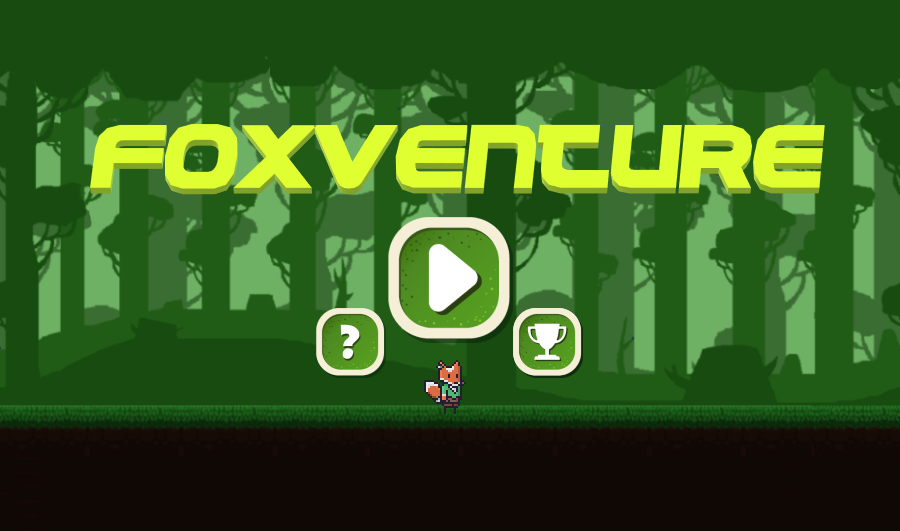
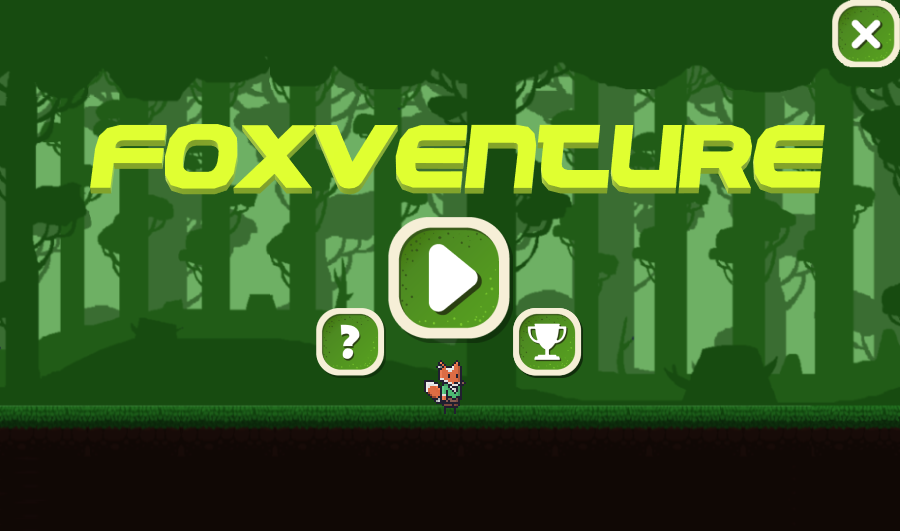
resetting

Changed region(s): [[0.9022, 0.0, 1.0, 0.1507]]

diff --git a/game.cpp b/game.cpp
@@ -34,9 +34,7 @@ enemy1(enemy1), enemy2(enemy2), topfive(5,0)
     SDL_Color color1 = {212, 238, 68, 0};
     losetext = graphics.renderText("YOU LOSE", lose, color);
     losetext1 = graphics.renderText("YOU LOSE", lose, color1);
-    frames=0;
-    frames1=0;
-    frames2=0;
+    passobs=0;
 }
 
 Game::~Game() {
@@ -127,49 +125,67 @@ void Game::run() {
 void Game::update() {
     timebetween++;
     SDL_Rect foxBox = fox.boundary();
-    cerr << "Fox boundary: (" << foxBox.x << ", " << foxBox.x + foxBox.w << ", " << foxBox.y  + foxBox.h << ")\n";
     SDL_Rect enemyBox = enemy.eboundary();
-    cerr << "Enemy boundary: (" << enemyBox.x << ", " << enemyBox.x + enemyBox.w << ", " << enemyBox.y + enemyBox.h << ")\n";
     SDL_Rect enemyBox1 = enemy1.eboundary();
-    cerr << "Enemy boundary: (" << enemyBox1.x << ", " << enemyBox1.x + enemyBox1.w << ", " << enemyBox1.y + enemyBox1.h << ")\n";
     SDL_Rect enemyBox2 = enemy2.eboundary();
-    cerr << "Enemy boundary: (" << enemyBox2.x << ", " << enemyBox2.x + enemyBox2.w << ", " << enemyBox2.y+ enemyBox2.h << ")\n";
     SDL_Rect obsBox = enemy.oboundary();
-    cerr << "Obs boundary: (" << obsBox.x << ", " << obsBox.x + obsBox.w << ", " << obsBox.y + obsBox.h << ")\n";
+    cerr<<enemy.obsposX<<endl<<enemy1.obsposX<<endl<<enemy2.obsposX<<endl;
     SDL_Rect obsBox1 = enemy1.oboundary();
-    cerr << "Obs boundary: (" << obsBox1.x << ", " << obsBox1.x + obsBox1.w << ", " << obsBox1.y + obsBox1.h << ")\n";
     SDL_Rect obsBox2 = enemy2.oboundary();
-    cerr << "Obs boundary: (" << obsBox2.x << ", " << obsBox2.x + obsBox2.w << ", " << obsBox2.y + obsBox2.h << ")\n";
     if(fox.currentSprite!=&fox.fattack) {foxBox.w=30;} else foxBox.w=50;
-    if (enemy.obsposX<=-110) {enemy.obsposX = SCRW+113+rand()%100;}
-    if (enemy1.obsposX<=-110) {enemy1.obsposX = SCRW+271+rand()%150;}
-    if (enemy2.obsposX<=-110) {enemy2.obsposX = SCRW+460+rand()%190;}
+    if (enemy.obsposX<-145) {enemy.obsposX = SCRW+113+rand()%100;}
+    if (enemy1.obsposX<-145) {enemy1.obsposX = SCRW+371+rand()%150;}
+    if (enemy2.obsposX<-145) {enemy2.obsposX = SCRW+760+rand()%290;}
     if (enemy.isOffScreen()&&(
         (obsBox1.x+obsBox1.w>=enemyBox.x&&obsBox1.x+obsBox1.w<=enemyBox.x+enemyBox.w)||
         (obsBox2.x+obsBox2.w>=enemyBox.x&&obsBox2.x+obsBox2.w<=enemyBox.x+enemyBox.w)||
          (abs(obsBox1.x+obsBox1.w-enemyBox.x)<40)||(abs(obsBox2.x+obsBox2.w-enemyBox.x)<40))&&
         enemy.state==enemy.ATTACKING) {
-        enemy.enemyposX +=rand()%150;
+        enemy.enemyposX +=150+rand()%200;
     }
     if (enemy1.isOffScreen()&&(
         (obsBox.x+obsBox.w>=enemyBox1.x&&obsBox.x+obsBox.w<=enemyBox1.x+enemyBox1.w)||
         (obsBox2.x+obsBox2.w>=enemyBox1.x&&obsBox2.x+obsBox2.w<=enemyBox1.x+enemyBox1.w)||
         (abs(obsBox.x+obsBox.w-enemyBox1.x)<40)||(abs(obsBox2.x+obsBox2.w-enemyBox1.x)<40))&&
         enemy.state==enemy.ATTACKING) {
-        enemy1.enemyposX +=150+rand()%150;
+        enemy1.enemyposX +=350+rand()%150;
     }
     if (enemy2.isOffScreen()&&(
         (obsBox1.x+obsBox1.w>=enemyBox2.x&&obsBox1.x+obsBox1.w<=enemyBox2.x+enemyBox2.w)||
         (obsBox.x+obsBox.w>=enemyBox2.x&&obsBox.x+obsBox.w<=enemyBox2.x+enemyBox2.w)||
         (abs(obsBox1.x+obsBox1.w-enemyBox2.x)<40)||(abs(obsBox.x+obsBox.w-enemyBox2.x)<40))&&
         enemy.state==enemy.ATTACKING) {
-        enemy2.enemyposX +=400+rand()%150;
+        enemy2.enemyposX +=500+rand()%150;
     }
     fox.update();
-    if(enemy.obsposX==enemy1.obsposX&&enemy1.obsposX==enemy2.obsposX&&enemy.obsposX>SCRW) {enemy1.obsposX+=310;enemy2.obsposX+=830;}
-    if(abs(enemy.obsposX-enemy1.obsposX)<60) {enemy1.obsposX-=30;}
-    if(abs(enemy1.obsposX-enemy2.obsposX)<60){enemy2.obsposX-=30;}
-    if(abs(enemy.obsposX-enemy2.obsposX)<60) {enemy.obsposX-=30;}
+    if(enemy.obsposX==enemy1.obsposX&&enemy1.obsposX==enemy2.obsposX&&enemy.obsposX>SCRW) {enemy1.obsposX+=810+rand()%243;enemy2.obsposX+=1230+rand()%412;}
+    if(abs(enemy.obsposX-enemy1.obsposX)<150&&enemy.obsposX<enemy1.obsposX) {enemy1.obsposX+=100;}
+    if(abs(enemy.obsposX-enemy1.obsposX)<150&&enemy.obsposX>enemy1.obsposX) {enemy.obsposX+=100;}
+    if(abs(enemy1.obsposX-enemy2.obsposX)<150&&enemy1.obsposX<enemy2.obsposX){enemy2.obsposX+=150;}
+    if(abs(enemy1.obsposX-enemy2.obsposX)<150&&enemy1.obsposX>enemy2.obsposX){enemy1.obsposX+=150;}
+    if(abs(enemy.obsposX-enemy2.obsposX)<150&&enemy.obsposX>enemy2.obsposX) {enemy.obsposX+=175;}
+    if(abs(enemy.obsposX-enemy2.obsposX)<150&&enemy.obsposX<enemy2.obsposX) {enemy2.obsposX+=175;}
+    if(enemy.obs.getFrame()==3) {obsBox.x=enemy.obsposX+100;obsBox.y=GROUNDFY;}
+    else if(enemy.obs.getFrame()==4) {obsBox.y=GROUNDFY+22;}
+    else if(enemy.obs.getFrame()==5)  {obsBox.x=enemy.obsposX+175;}
+    else if(enemy.obs.getFrame()==6) {obsBox.y=GROUNDFY-14;}
+    else {obsBox={enemy.obsposX+140, GROUNDFY-8, 15, 60};}
+    if(enemy1.obs.getFrame()==3) {obsBox1.x=enemy1.obsposX+100;obsBox1.y=GROUNDFY;}
+    else if(enemy1.obs.getFrame()==4) {obsBox1.y=GROUNDFY+22;}
+    else if(enemy1.obs.getFrame()==5)  {obsBox1.x=enemy1.obsposX+175;}
+    else if(enemy1.obs.getFrame()==6) {obsBox1.y=GROUNDFY-14;}
+    else {obsBox1={enemy1.obsposX+140, GROUNDFY-8, 15, 60};}
+    if(enemy2.obs.getFrame()==3) {obsBox2.x=enemy2.obsposX+100;obsBox2.y=GROUNDFY;}
+    else if(enemy2.obs.getFrame()==4) {obsBox2.y=GROUNDFY+22;}
+    else if(enemy2.obs.getFrame()==5) {obsBox2.x=enemy2.obsposX+175;}
+    else if(enemy2.obs.getFrame()==6) {obsBox2.y=GROUNDFY-14;}
+    else {obsBox2={enemy2.obsposX+140, GROUNDFY-8, 15, 60};}
+    if (enemy.eattack.getFrame()==4||enemy.eattack.getFrame()==5) {enemyBox.x=enemy.enemyposX+5;}
+    else {enemyBox={enemy.enemyposX+25, GROUNDFY+19, 43, 30};}
+    if (enemy1.eattack.getFrame()==4||enemy1.eattack.getFrame()==5) {enemyBox1.x=enemy1.enemyposX+5;}
+    else {enemyBox1={enemy1.enemyposX+25, GROUNDFY+19, 43, 30};}
+    if (enemy2.eattack.getFrame()==4||enemy2.eattack.getFrame()==5) {enemyBox2.x=enemy2.enemyposX+5;}
+    else {enemyBox2={enemy2.enemyposX+25, GROUNDFY+19, 43, 30};}
     enemy.update();
     enemy1.update();
     enemy2.update();
@@ -182,6 +198,7 @@ void Game::update() {
         graphics.presentScene();
         score += 5;
         enemy.enemyposX = SCRW+150+rand()%100;
+        enemy.state = enemy.OBSTACLE;
     } else if (fox.currentSprite != &fox.fattack) {
         fox.currentSprite = &fox.fdeath;
         quit = true;
@@ -194,6 +211,7 @@ void Game::update() {
         graphics.presentScene();
         score += 5;
         enemy1.enemyposX = SCRW+250+rand()%200;
+        enemy1.state = enemy1.OBSTACLE;
     } else if (fox.currentSprite != &fox.fattack) {
         fox.currentSprite = &fox.fdeath;
         quit = true;
@@ -206,45 +224,38 @@ void Game::update() {
         graphics.presentScene();
         score += 5;
         enemy2.enemyposX = SCRW+500+rand()%100;
+        enemy2.state = enemy2.OBSTACLE;
     } else if (fox.currentSprite != &fox.fattack) {
         fox.currentSprite = &fox.fdeath;
         quit = true;
         gameover = true;
         }
     }
-    if (SDL_HasIntersection(&foxBox, &obsBox)) {
-        fox.currentSprite = &fox.fdeath;
+    if (SDL_HasIntersection(&foxBox, &obsBox)|| SDL_HasIntersection(&foxBox, &obsBox1)||SDL_HasIntersection(&foxBox, &obsBox2)) {
         quit = true;
         gameover = true;
-    }
-    if (SDL_HasIntersection(&foxBox, &obsBox1)) {
         fox.currentSprite = &fox.fdeath;
-        quit = true;
-        gameover = true;
-    }
-     if (SDL_HasIntersection(&foxBox, &obsBox2)) {
-        fox.currentSprite = &fox.fdeath;
-        quit = true;
-        gameover = true;
-    }
-    if ((obsBox.x<75&&obsBox.x>=70))  {frames++;}
-    if ((obsBox1.x<75&&obsBox1.x>=70)) {frames1++;}
-    if ((obsBox2.x<75&&obsBox2.x>=70)) {frames2++;}
-    if (frames==1||frames1==1||frames2==1) {score += 2;}
-    if (enemy.obsposX<0) {frames=0;}
-    if (enemy1.obsposX<0) {frames1=0;}
-    if (enemy2.obsposX<0)  {frames2=0;}
+    } else {
+            passobs++;
+            if (passobs>70) {
+                score++;
+                passobs=0;
+            }
+        }
+    if (enemy.obsposX<-145) {score+=2;enemy.state=enemy.ATTACKING;}
+    if (enemy1.obsposX<-145) {score+=2;enemy1.state=enemy1.ATTACKING;}
+    if (enemy2.obsposX<-145) {score+=2;enemy2.state=enemy2.ATTACKING;}
     if (enemy.enemyposX<0) {enemy.enemyposX=SCRW+120;}
-    if (enemy1.enemyposX<0) {enemy1.enemyposX=SCRW+300;}
-    if (enemy2.enemyposX<0)  {enemy2.enemyposX=SCRW+450;}
+    if (enemy1.enemyposX<0) {enemy1.enemyposX=SCRW+500;}
+    if (enemy2.enemyposX<0)  {enemy2.enemyposX=SCRW+950;}
     scoreText="Score: "+to_string(score);
     scoreTexture=graphics.renderText(scoreText.c_str(), scoret, color);
-    if(timebetween>=2500) {
+    if(timebetween>=1600) {
         enemy.speed+=1;
         enemy1.speed+=1;
         enemy2.speed+=1;
-        fox.JUMP_SPEED += 1;
-        fox.FALL_SPEED +=1;
+        fox.JUMP_SPEED+=1;
+        fox.FALL_SPEED+=1;
         timebetween=0;
     }
 }
@@ -285,12 +296,21 @@ void Game::render() {
     fox.render(graphics);
     renderScore();
     graphics.presentScene();
+    soundPlayed = false;
 }
 
 void Game::renderOver() {
-    static bool soundPlayed = false;
     graphics.renderTexture(losetext1, 119, 32);
     graphics.renderTexture(losetext, 114, 31);
+    graphics.renderTexture(gcontinue, 0, 0);
+    if (musicisoff) {
+                    graphics.renderTexture(musicoff, MUSIC_X, MUSIC_Y);
+                    Mix_PauseMusic();
+                }
+                else {
+                        graphics.renderTexture(musicon, MUSIC_X, MUSIC_Y);
+                        Mix_ResumeMusic();
+                    }
     if (!soundPlayed) {
         graphics.play2(glose);
         soundPlayed = true;
@@ -338,6 +358,9 @@ void Game::overEvent() {
             }
             if (x >= SCRW/2+54 && x <= SCRW/2+152 && y >= 210 && y <= 310) {
                 exit(0);
+            }
+            if (x >= 70 && x <= 140 && y >= 0 && y <= 70) {
+                    musicisoff=!musicisoff;
             }
             break;
         }

diff --git a/menu.cpp b/menu.cpp
@@ -5,6 +5,7 @@ Menu::Menu(Graphics& graphics, Game* game)
     : graphics(graphics), game(game),
       gameStarted(false), helpStarted(false), highscoresStarted(false) {
     menu = graphics.loadTexture("pics/menu.png");
+    gclose = graphics.loadTexture("pics/closemenu.png");
     helpbg = graphics.loadTexture("pics/helpbg.png");
     highscoresbg = graphics.loadTexture("pics/highscoresbg.png");
     playb = graphics.loadTexture("pics/playbig.png");
@@ -19,6 +20,8 @@ Menu::Menu(Graphics& graphics, Game* game)
 Menu:: ~Menu() {
     SDL_DestroyTexture( menu );
     menu = nullptr;
+    SDL_DestroyTexture( gclose );
+    gclose = nullptr;
     SDL_DestroyTexture(helpbg);
     helpbg = nullptr;
     SDL_DestroyTexture(highscoresbg);
@@ -65,6 +68,10 @@ void Menu::menuevents(SDL_Event& event) {
                 highscoresEvent.user.code = 3; // Mã định danh cho sự kiện highscores
                 SDL_PushEvent(&highscoresEvent);
             }
+            if (!helpStarted && !highscoresStarted && !gameStarted
+                && x >= 830 && x <= SCRW && y >= 0 && y <= 70) {
+                exit(0);
+            }
             break;
             case SDL_MOUSEMOTION:
             x = event.motion.x;
@@ -80,6 +87,10 @@ void Menu::menuevents(SDL_Event& event) {
             } else if (helpStarted==false&&gameStarted==false&&highscoresStarted==false
             && x >= 518 && x <= 580 && y >= 308 && y <= 372) {
             graphics.renderTexture(hsb, 510, 305);
+            graphics.presentScene();
+            } else if (helpStarted==false&&gameStarted==false&&highscoresStarted==false
+            && x >= 830 && x <= SCRW && y >= 0 && y <= 70) {
+            graphics.renderTexture(gclose, 828, 0);
             graphics.presentScene();
             } else if (helpStarted==false&&gameStarted==false&&highscoresStarted==false) {
             graphics.renderTexture(menu,0,0);

diff --git a/enemy.cpp b/enemy.cpp
@@ -5,11 +5,11 @@ using namespace std;
 Enemy::Enemy(Graphics& graphics) : graphics(graphics) {
     enemyattack = graphics.loadTexture("pics/Centipede_attack3.png");
     enemydeath = graphics.loadTexture("pics/Centipede_death.png");
-    tileset = graphics.loadTexture("pics/tileset.png");
+    tileset = graphics.loadTexture("pics/chal.png");
     eattack.init(enemyattack, EATTACK_FRAMES, EATTACK_CLIPS);
     edeath.init(enemydeath, EDEAD_FRAMES, EDEAD_CLIPS);
     obs.init(tileset, OBSTACLE_FRAMES, OBSTACLE_CLIPS);
-    enemyposX=SCRW+350;
+    enemyposX=SCRW+250+rand()%200;
     obsposX=SCRW+20;
     currentSprite = &eattack;
     state=OBSTACLE;
@@ -32,14 +32,8 @@ void Enemy::update() {
             if (currentSprite == &edeath && edeath.isLastFrame()) {
                 currentSprite = &eattack;
             }
-            if (currentSprite == &edeath) {
-                state = OBSTACLE;
-            }
         } else if (state == OBSTACLE) {
             obsposX -= speed;
-            if (obsposX<-75) {
-                state = ATTACKING;
-            }
         }
     }
 
@@ -47,6 +41,7 @@ void Enemy::reset() {
     enemyposX=SCRW+450;
     obsposX=SCRW+10;
     currentSprite = &eattack;
+    speed=2;
 }
 
 void Enemy::render(Graphics& graphics) {
@@ -55,15 +50,15 @@ void Enemy::render(Graphics& graphics) {
             graphics.renders(enemyposX, GROUNDFY+19, *currentSprite);
         } else if (state == OBSTACLE) {
             obs.tick();
-            graphics.renders(obsposX, GROUNDFY+34, obs);
+            graphics.renders(obsposX+80, GROUNDFY-18, obs);
         }
     }
 
 SDL_Rect Enemy::eboundary() {
-    return {enemyposX+16, GROUNDFY+19, 43, 30};
+    return {enemyposX+26, GROUNDFY+19, 43, 30};
 }
 SDL_Rect Enemy::oboundary() {
-    return {obsposX+9, GROUNDFY+39, 64, 14};
+    return {obsposX+140, GROUNDFY-8, 15, 60};
 }
 
 bool Enemy::isOffScreen() {

diff --git a/def.h b/def.h
@@ -4,8 +4,13 @@ const int SCRW = 900;
 const int SCRH = 531;
 const int MIX_CHANNEL = -1;
 const int OBSTACLE_CLIPS[][4] = {
-    {0,0,82,20},
-    {82,0,82,20}};
+    {0,0,130,82},
+    {130,0,130,82},
+    {130*2,0,130,82},
+    {130*3,0,130,121},
+    {130*4,0,130+4,121},
+    {130*5+4,0,130,82},
+    {130*6,0,130,82}};
 const int OBSTACLE_FRAMES = sizeof(OBSTACLE_CLIPS)/sizeof(int)/4;
 const int WALK_CLIPS[][4] = {
     {   0, 0, 160, 64},
@@ -45,7 +50,7 @@ const int EATTACK_CLIPS[][4] = {
     {288, 0, 72, 40},
     {360, 0, 72, 40}};
 const int EATTACK_FRAMES = sizeof(EATTACK_CLIPS)/sizeof(int)/4;
-
+static bool soundPlayed = false;
 const int PLAY_X = SCRW/2-68;
 const int PLAY_Y = SCRH/2-50;
 const int BACK_X = 0;
@@ -59,7 +64,7 @@ const int MUSIC_H = 70;
 const int SCOREX = 445;
 const int SCOREY = 120;
 const int SCOREGAP = 55;
-const int GROUNDFX = 100;
+const int GROUNDFX = 89;
 const int GROUNDFY = 355;
 const int MAX_HEIGHT = 200;
 const int MAX_DELAY = 800;

diff --git a/fox.cpp b/fox.cpp
@@ -13,7 +13,7 @@ Fox::Fox(Graphics& graphics): graphics(graphics), isJumping(false), isAttacking(
     gJump = graphics.loadSound("sounds/jump.wav");
     gAttack = graphics.loadSound("sounds/attack.wav");
     currentSprite = &fwalk;
-    JUMP_SPEED = 4;
+    JUMP_SPEED = 3;
     FALL_SPEED = 4;
 }
 
@@ -91,5 +91,5 @@ void Fox::render(Graphics& graphics)
     graphics.renders(GROUNDFX, FOXPOSY, *currentSprite);
 }
 SDL_Rect Fox::boundary(){
-    return {GROUNDFX+49, FOXPOSY, 30, 54};
+    return {GROUNDFX+49, FOXPOSY, 30, 51};
 }

diff --git a/graphics.h b/graphics.h
@@ -14,7 +14,7 @@ struct Sprite {
     vector<SDL_Rect> clips;
     int currentFrame = 0;
     int delaycount=0;
-    int delaylimit=8;
+    int delaylimit=7;
     void init(SDL_Texture* _texture, int frames, const int _clips [][4]) {
         texture = _texture;
         SDL_Rect clip;
@@ -39,6 +39,9 @@ struct Sprite {
     }
     bool isLastFrame() const {
         return currentFrame == clips.size() - 1;
+    }
+    int getFrame() {
+        return currentFrame;
     }
 };
 

diff --git a/game.h b/game.h
@@ -43,9 +43,9 @@ private:
     SDL_Color color;
     int timebetween = 0;
     bool quit;
-    int frames,frames1,frames2;
     string highScoreText, scoreText;
     Mix_Chunk* glose;
+    int passobs;
 public:
     Game(Graphics& graphics, Fox& fox, Menu& menu, Enemy& enemy, Enemy& enemy1, Enemy& enemy2);
     ~Game();

diff --git a/menu.h b/menu.h
@@ -25,6 +25,7 @@ private:
     Game* game;
     TTF_Font* scoret;
     SDL_Texture* menu;
+    SDL_Texture* gclose;
     SDL_Texture* helpbg;
     SDL_Texture* highscoresbg;
     SDL_Texture* HSTexture;

diff --git a/fox.h b/fox.h
@@ -26,6 +26,7 @@ public:
     bool onGround();
     int JUMP_SPEED;
     int FALL_SPEED;
+    int flim;
 private:
     Graphics& graphics;
     SDL_Texture* foxwalk;
